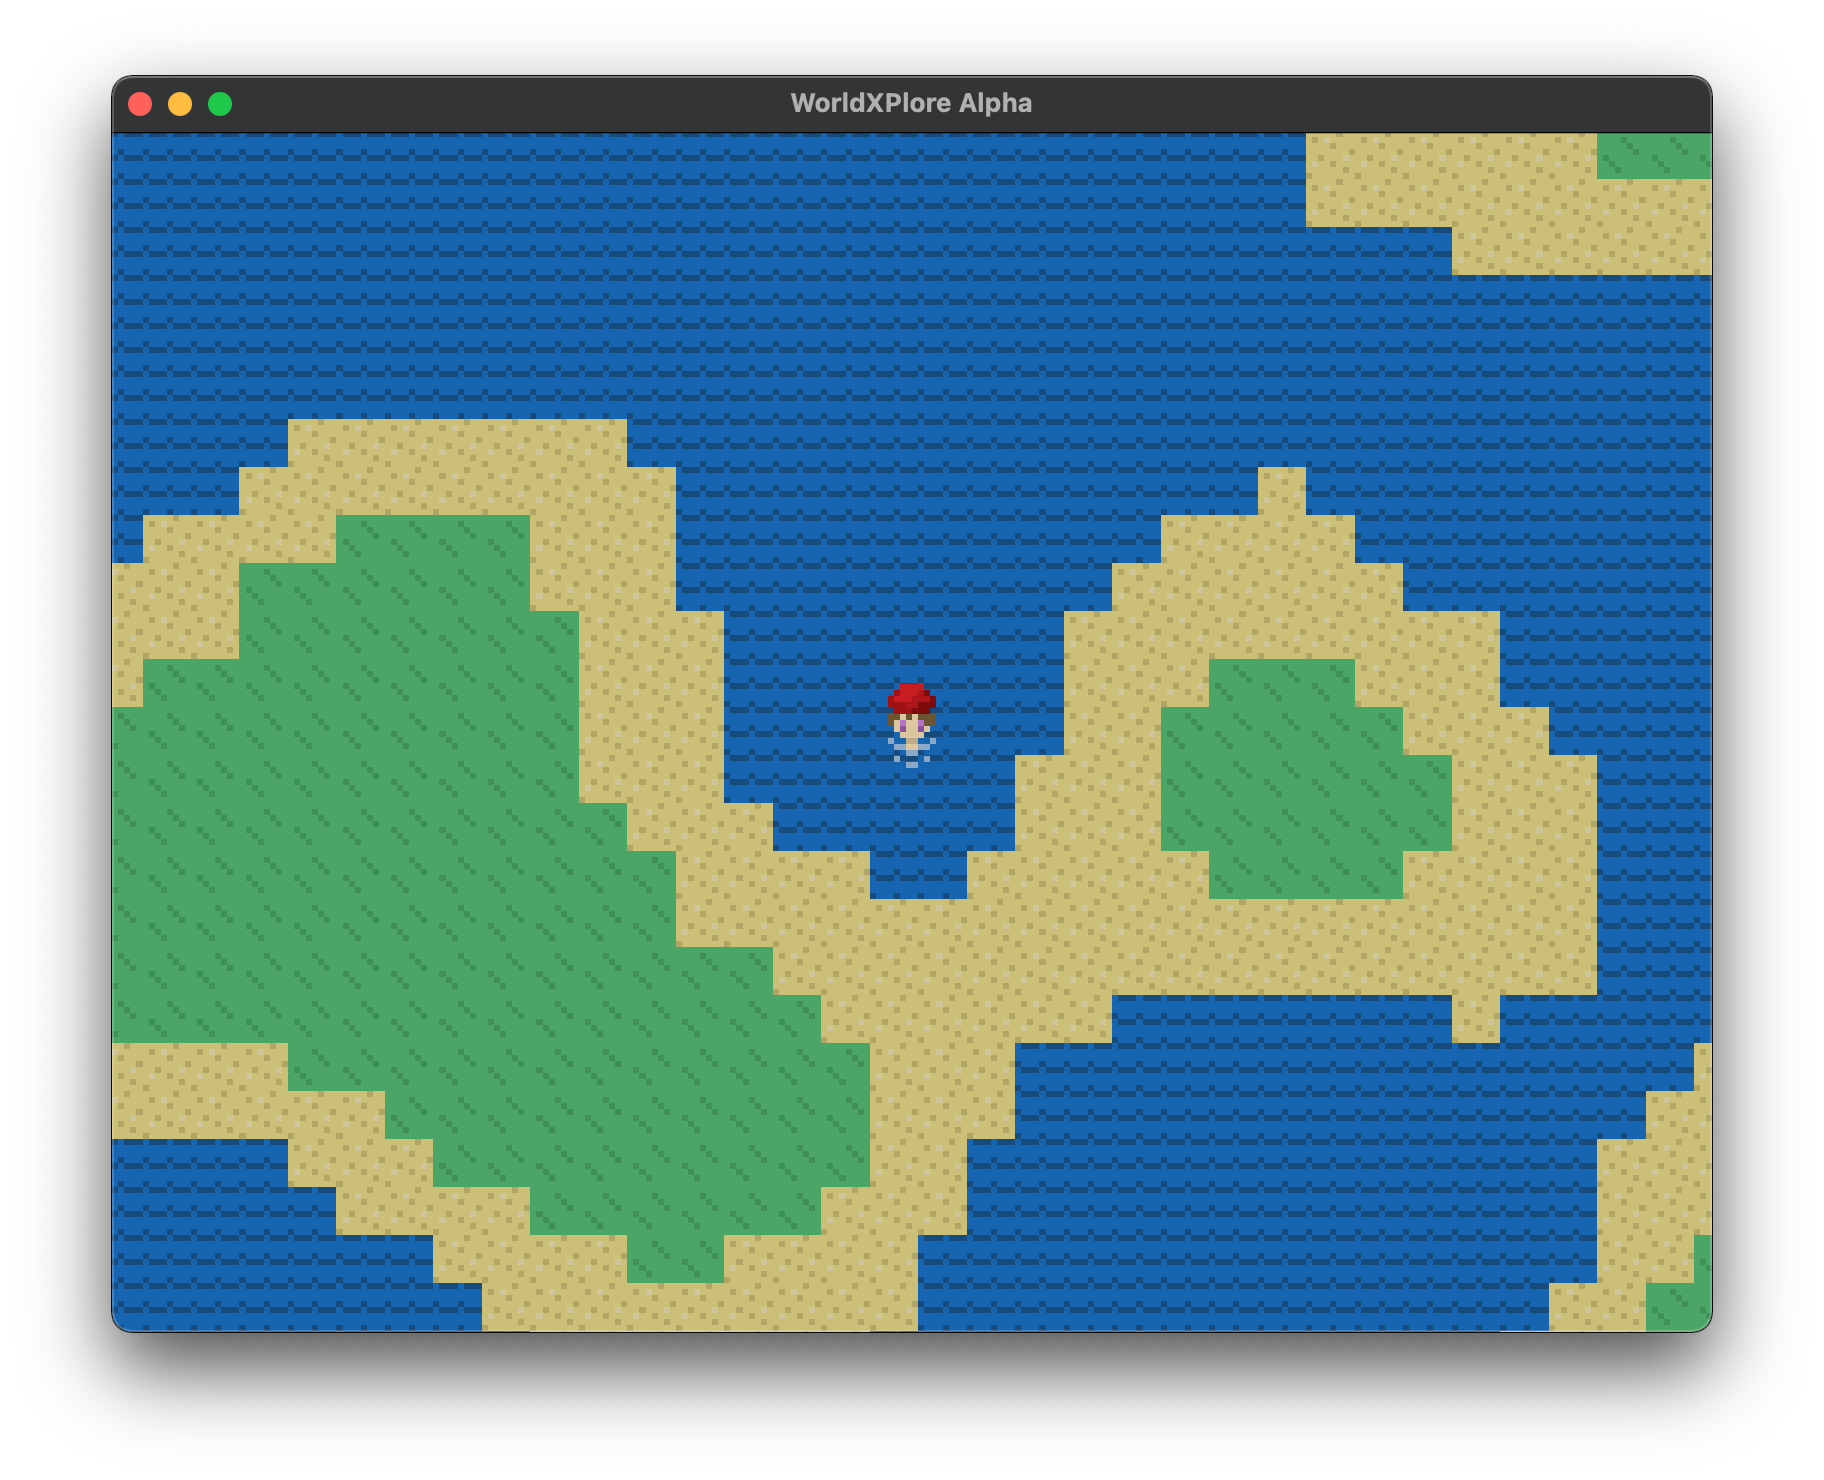
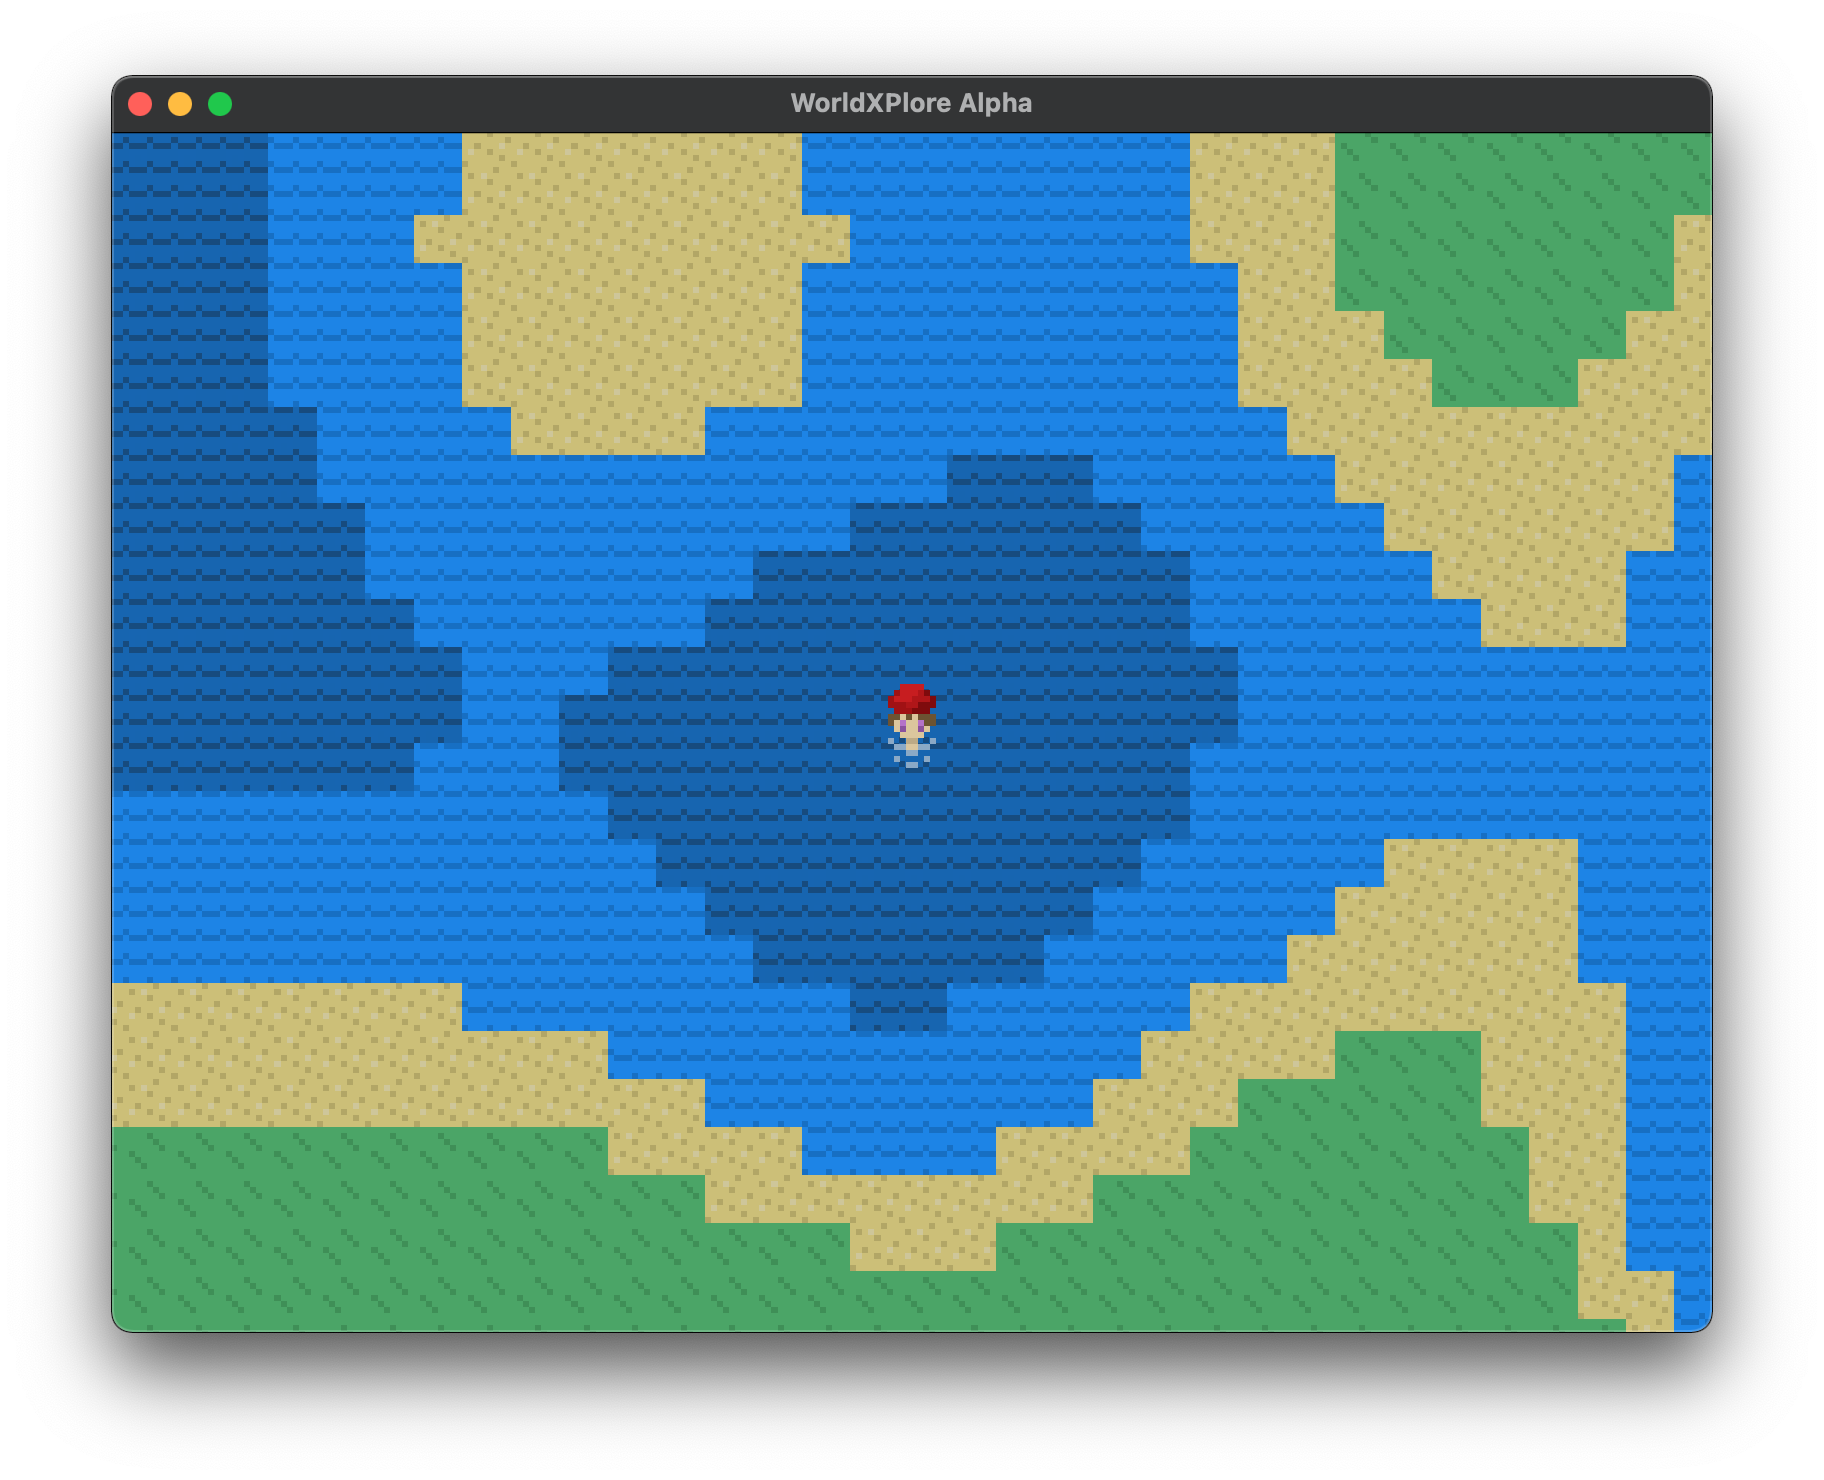
Add shallow water

diff --git a/src/worldgen.rs b/src/worldgen.rs
@@ -24,12 +24,18 @@ pub fn generate_perlin (width: i32, height: i32) -> Vec<Vec<f64>> {
 
 /**
 * Convert perlin noise map to game tiles
+* 0: Deep Ocean
+* 1: Ocean
+* 2: Beach
+* 3: Grass
+* 4: Trees
 */
 pub fn elevation_to_tiles (p_map: Vec<Vec<f64>>) -> Vec<Vec<usize>> {
   // map over the map
   p_map.iter().map(|p_row| p_row.iter().map(|tile| {
-    if tile < &0. { return 0 }
-    else if tile < &0.2 { return 1 }
-    else { return 2 }
+    if tile < &-0.3 { return 0 }
+    else if tile < &0. { return 1 }
+    else if tile < &0.2 { return 2 }
+    else { return 3 }
   }).collect()).collect()
 }

diff --git a/src/camera.rs b/src/camera.rs
@@ -57,7 +57,8 @@ impl Camera {
     // if move lands us in water, set in water to true
     // adjustments are made to set the comparison point at the centre of the character's feet instead of
     // the top left of the screen
-    if world[(self.x + 0.5).floor() as usize + (self.width / 2) as usize][self.y.floor() as usize + (self.height / 2) as usize + 2] == 0 {
+    // values <= 1 are water varities
+    if world[(self.x + 0.5).floor() as usize + (self.width / 2) as usize][self.y.floor() as usize + (self.height / 2) as usize + 2] <= 1 {
       self.is_swimming = true;
     }
 
